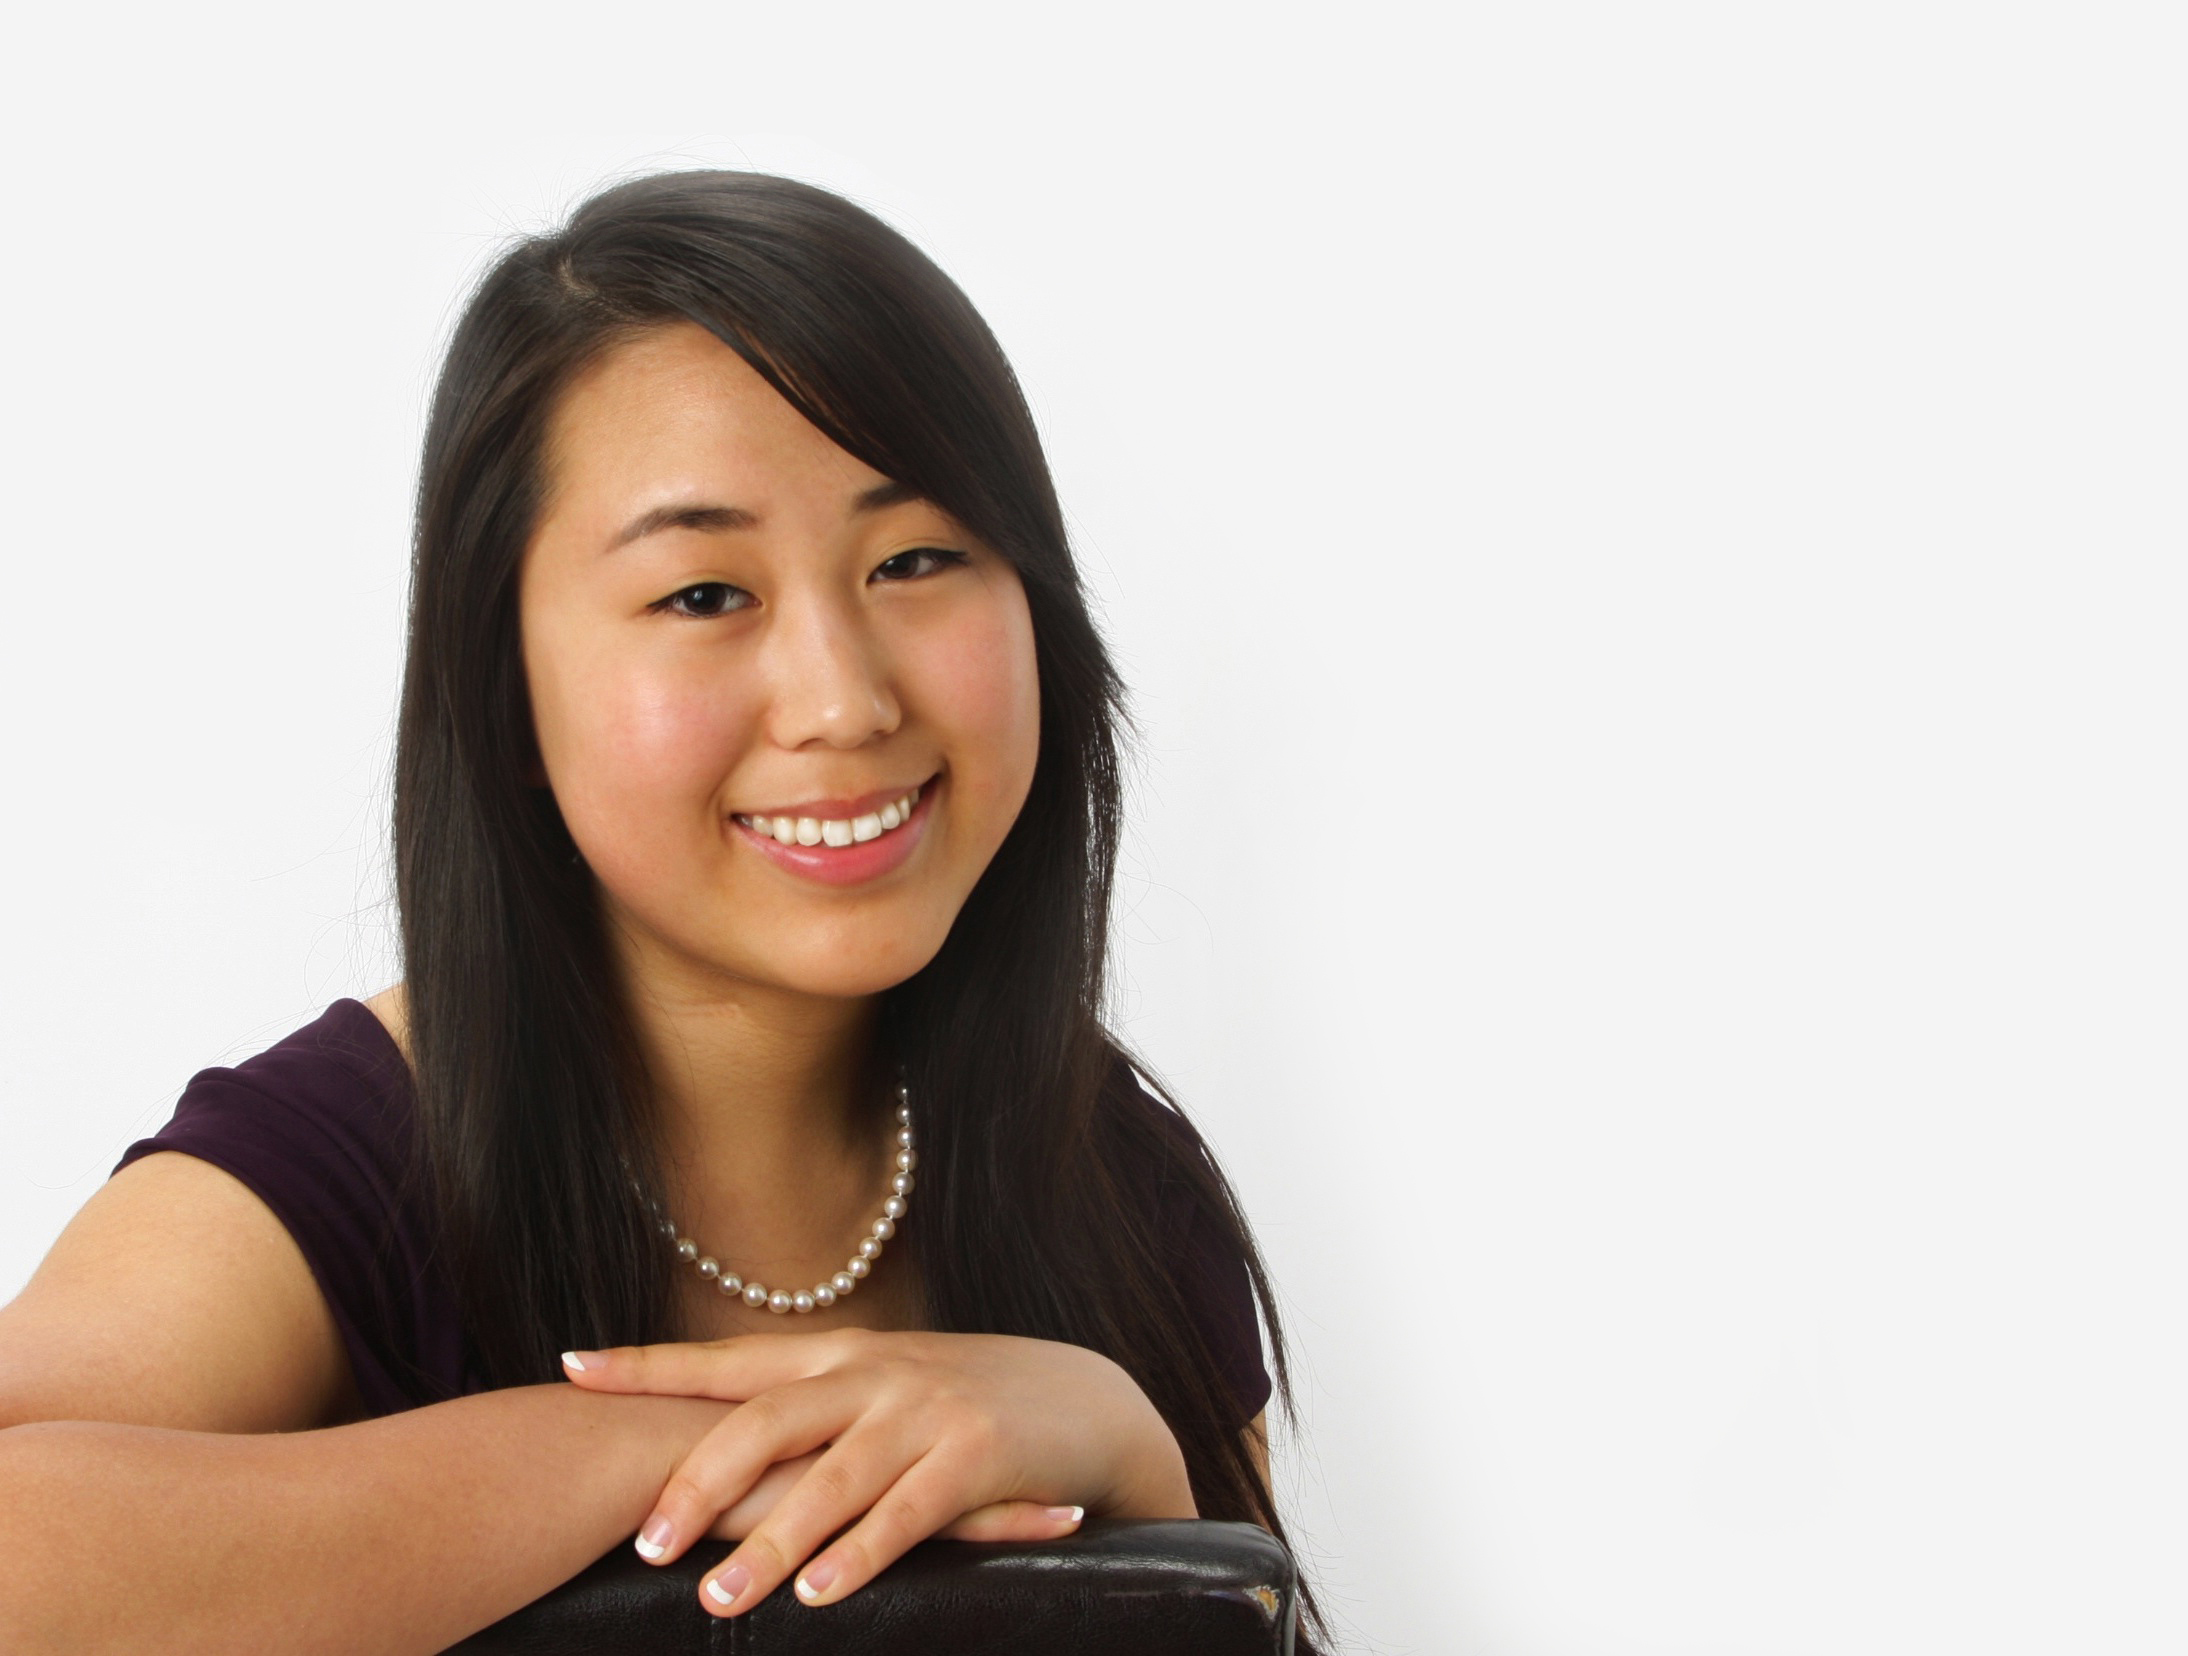
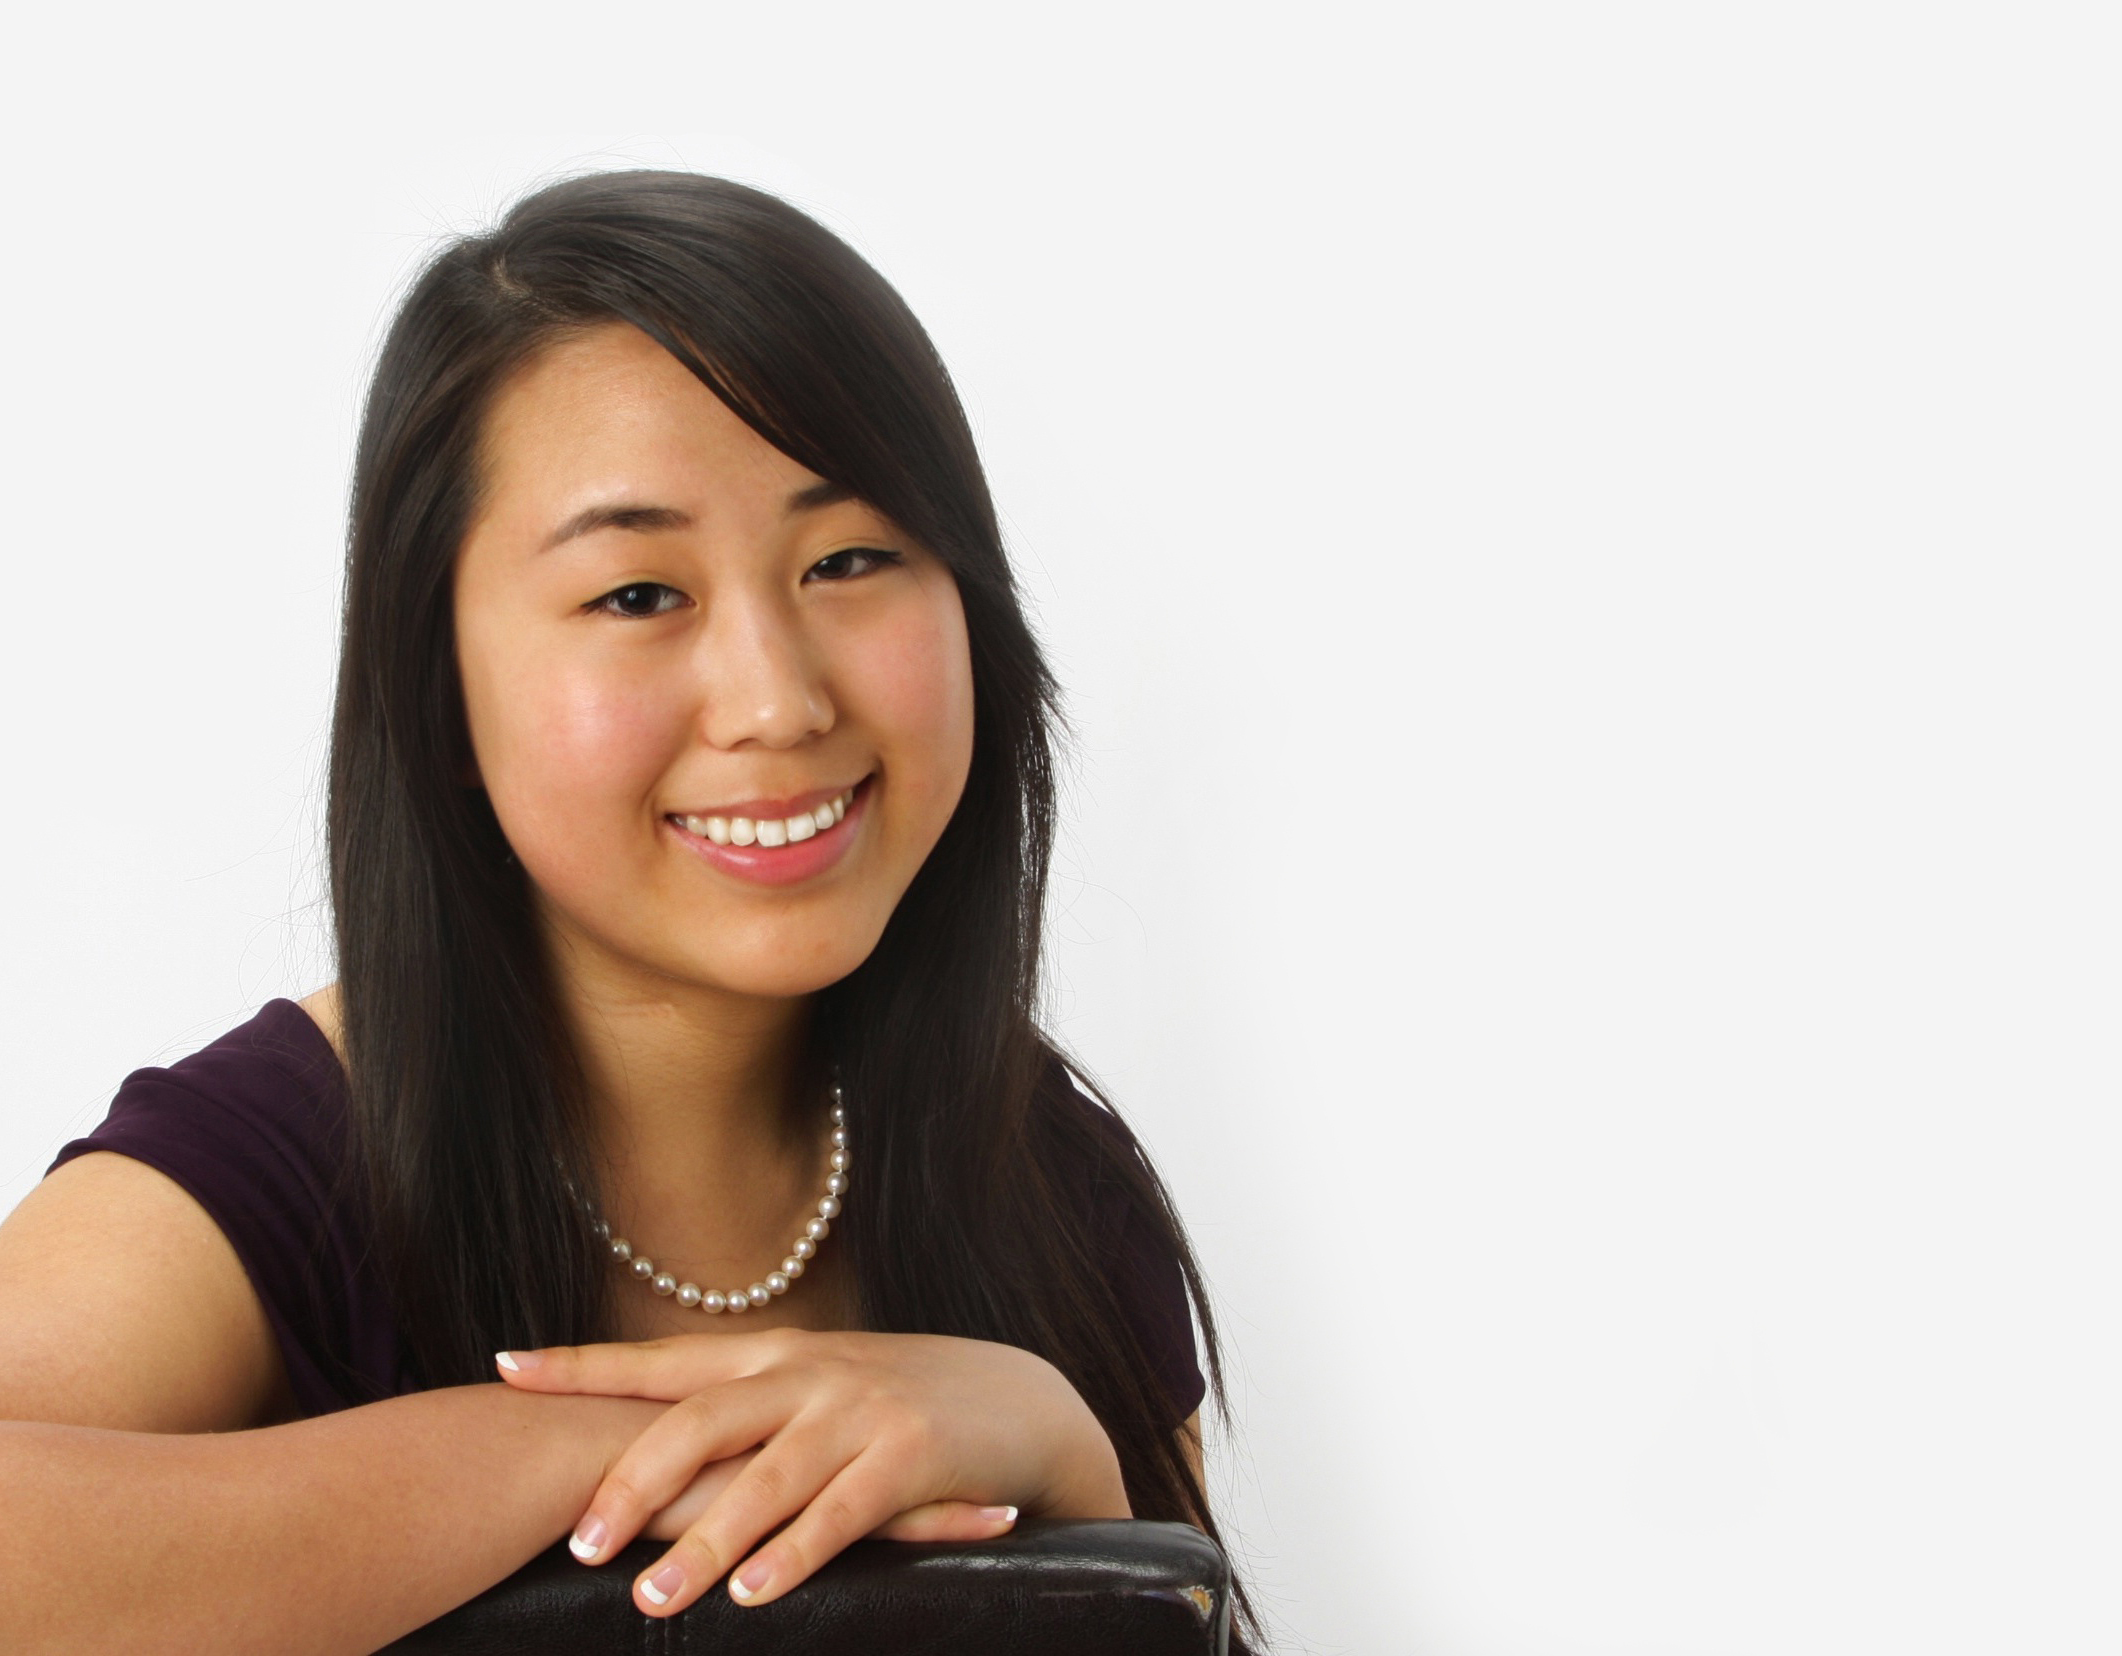
Home page for mobile

Changed region(s): [[0.0, 0.0924, 0.6221, 1.0]]

diff --git a/index.html b/index.html
@@ -37,48 +37,53 @@
             </div>
         </div>
     </div>
-    <div id="pictureofme">
-        <img src="assets/images/about.jpg">
-    </div>
     <div id="content">
-        <div id="name">Sarah Jiyun Kim</div>
-        <div id="description">
-            UC Berkeley Computer Science, 2016
+        <div id="pictureofmelong">
+            <img src="assets/images/about.jpg">
         </div>
-        <div class="header">Hello, World!</div>
-        <div class="text">
-            I am a junior studying computer science at UC Berkeley. This summer, I will be
-            teaching a section of CS 61BL (Data Structures) and continuing work as a web
-            developer & designer for Lawrence Berkeley National Laboratory's Monarch
-            Initiative.
+        <div id="pictureofmephone">
+            <img src="assets/images/aboutphone.jpg">
         </div>
-        <div class="text">
-            I plan to take CS 162 (Operating Systems), CS 168 (Internet Architecture &
-            Protocols), and CS 188 (Artificial Intelligence) in the fall.
-        </div>
-        <div class="text">
-            In my spare time, I enjoy reading CS research papers and books,
-            eating delicious food, spending time with family and friends, and sleeping.
-            I am also an officer for the Computer Science Undergraduate Association (CSUA).
-        </div>
-        <div class="text">
-            I am currently looking for ways to develop my skills and learn more about
-            computer science in industry and academia. I welcome research and
-            internship opportunities. Please contact me by emailing me at
-            sarahjkim@berkeley.edu.
-        </div>
-        <div id="buttonbar">
-            <div class="button">
-                <a href="assets/resume.pdf">Resume</a>
+        <div id="aboutme">
+            <div id="name">Sarah Jiyun Kim</div>
+            <div id="description">
+                UC Berkeley Computer Science, 2016
             </div>
-            <div class="button">
-                <a href="https://github.com/sarahjkim">GitHub</a>
+            <div class="header">Hello, World!</div>
+            <div class="text">
+                I am a junior studying computer science at UC Berkeley. This summer, I will be
+                teaching a section of CS 61BL (Data Structures) and continuing work as a web
+                developer & designer for Lawrence Berkeley National Laboratory's Monarch
+                Initiative.
             </div>
-            <div class="button">
-                <a href="http://www.linkedin.com/in/sarahjkim">LinkedIn</a>
+            <div class="text">
+                I plan to take CS 162 (Operating Systems), CS 168 (Internet Architecture &
+                Protocols), and CS 188 (Artificial Intelligence) in the fall.
             </div>
-            <div class="button">
-                <a href="mailto:sarahjkim@berkeley.edu">Email</a>
+            <div class="text">
+                In my spare time, I enjoy reading CS research papers and books,
+                eating delicious food, spending time with family and friends, and sleeping.
+                I am also an officer for the Computer Science Undergraduate Association (CSUA).
+            </div>
+            <div class="text">
+                I am currently looking for ways to develop my skills and learn more about
+                computer science in industry and academia. I welcome research and
+                internship opportunities. Please contact me by emailing me at
+                sarahjkim@berkeley.edu.
+            </div>
+            <div id="buttonbar">
+                <div class="button">
+                    <a href="assets/resume.pdf">Resume</a>
+                </div>
+                <div class="button">
+                    <a href="https://github.com/sarahjkim">GitHub</a>
+                </div>
+                <div class="button">
+                    <a href="http://www.linkedin.com/in/sarahjkim">LinkedIn</a>
+                </div>
+                <div class="button">
+                    <a href="mailto:sarahjkim@berkeley.edu">Email</a>
+                </div>
             </div>
         </div>
     </div>

diff --git a/assets/css/index.css b/assets/css/index.css
@@ -1,16 +1,41 @@
-#pictureofme {
-    width: 600px;
-    position: fixed;
-    z-index: -10;
+@media (min-width: 1070px) {
+    #pictureofmelong {
+        width: 600px;
+        position: fixed;
+        z-index: -10;
+    }
+    #pictureofmelong > img {
+        height: 100%;
+    }
+    #aboutme {
+        position: fixed;
+        left: 55%;
+        top: 13%;
+        margin-right: 100px;
+    }
+    #pictureofmephone {
+        display: none;
+    }
 }
-#pictureofme > img {
-    height: 100%;
-}
-#content {
-    position: fixed;
-    left: 55%;
-    top: 13%;
-    margin-right: 100px;
+@media (max-width: 1070px) {
+    #content {
+        padding-top: 40px;
+    }
+    #pictureofmelong {
+        display: none;
+    }
+    #pictureofmephone {
+        width: 70%;
+        border: 10px solid white;
+        margin: 0 13.5% 0 16.5%;
+    }
+    #pictureofmephone > img {
+        width: 100%;
+    }
+    #aboutme {
+        width: 70%;
+        margin: 20px 13.5% 50px 16.5%;
+    }
 }
 #name {
     font-size: 50px;
